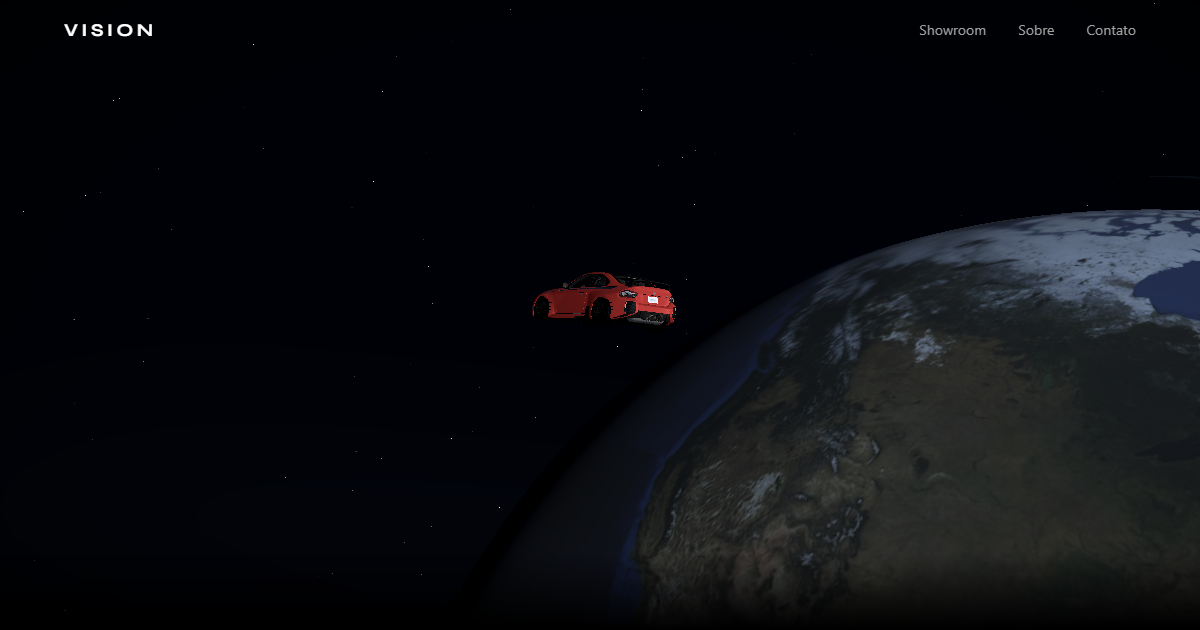
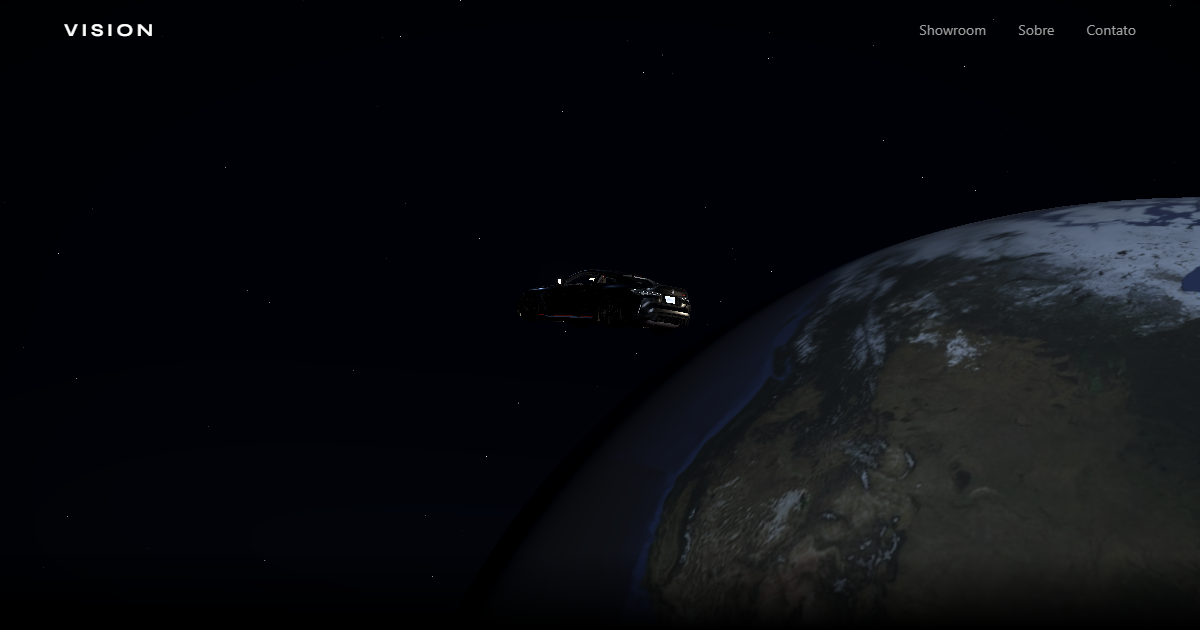
Capturas reais do VISION e ViON no ar; ViON com link vion-ashen.vercel.app.

diff --git a/data/projects.ts b/data/projects.ts
@@ -464,7 +464,9 @@ export const projects: Project[] = [
       "Site institucional 3D para operadoras: van de instalação, scroll-driven e pitch de vendas + campo com marca parceira.",
     detailedDescription:
       "ViON é o site de apresentação do modelo comercial para operadoras parceiras: vendedores fixos no desk e equipe de instalação em campo, operando com a marca da operadora. A experiência é scroll-driven — câmera e cena 3D sincronizadas com as seções, inspiradas em referências imersivas como igloo.inc. Inclui van de serviço modelada, roteador procedural, partículas, grid de rede, intro animada e post-processing. Stack React + Vite + Three.js + Tailwind v4 + Zustand.",
-    thumbnail: "/project-thumbs/vion.svg",
+    thumbnail: "/project-thumbs/captures/vion.png",
+    thumbnailWidth: 1200,
+    thumbnailHeight: 630,
     category: "Site institucional 3D",
     year: 2026,
     impactLabel: "Pitch imersivo para operadoras",
@@ -481,10 +483,10 @@ export const projects: Project[] = [
       "Cena 3D com van, rede e efeitos visuais alinhados à identidade laranja ViON.",
     ],
     results: [
-      "Site de pitch pronto para enviar a operadoras interessadas.",
+      "Site publicado na Vercel com experiência scroll-driven completa.",
       "Demonstração clara do modelo desk + campo sem expor dados de clientes.",
     ],
-    liveUrl: "",
+    liveUrl: "https://vion-ashen.vercel.app",
   },
   {
     slug: "consultoria-cloud-service",